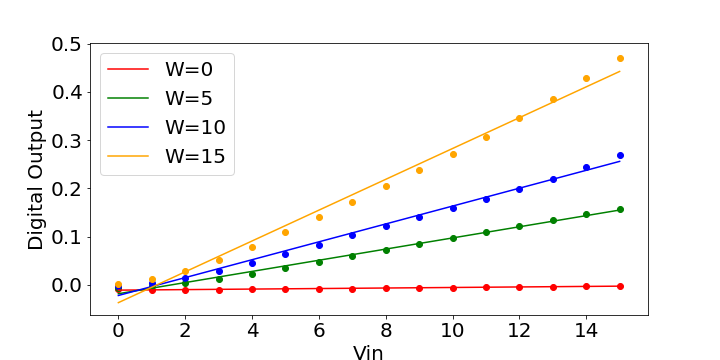
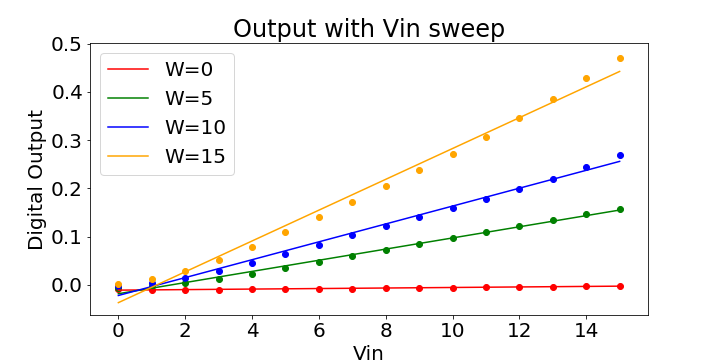
add existing fi files

Changed region(s): [[0.3056, 0.0611, 0.7028, 0.1222]]

diff --git a/Application levels/MNIST/LeNet.py b/Application levels/MNIST/LeNet.py
@@ -73,16 +73,17 @@ class lenet(nn.Module):
     
     def inference(self, x,do_quantise = True):
         #layer 1
-        x = self.myconv(inp=x, w=self.conv1.weight.data, input_channels=self.input_size, output_channels=6, kernel_size=5, padding=2)
-        
+        x = self.myconv(x=x, w=self.conv1.weight.data, input_channels=self.input_size, output_channels=6, kernel_size=5, padding=2, b=self.conv1.bias.data)
         x = F.relu(x)
         x = self.maxpool1(x)
         #layer 2
-        x,d = self.quantise(x,self.bit_A, do_quantise)
-        x = self.myconv(inp=x,digital=d,weight=self.conv2.weight.data,input_channels=6,output_channels=16, kernel_size=5, padding=0, bias=self.conv2.bias.data)
+        x = F.relu(self.conv2(x))
+        x = self.maxpool2(x)        
         
-        x = F.relu(x)
-        x = self.maxpool2(x)
+        x = x.view(x.size(0), -1)
+        x = F.relu(self.linear1(x))
+        x = F.relu(self.linear2(x))
+        x = self.classifier(x)
         """
         #Flatten
         x = x.view(x.size(0), -1)
@@ -102,13 +103,13 @@ class lenet(nn.Module):
              
     
     
-    def myconv(self,x,w,input_channels,output_channels,kernel_size,padding):
+    def myconv(self,x,w,input_channels,output_channels,kernel_size,padding,stride=1,b=0):
         #non_linearity matrix read from the file
         mult = pd.read_csv('/home/min/a/skodge/Project/GitHub/6T-SRAM-Multiplication/Circuit Simulation/nominal.csv',header=None)
         mult = torch.tensor(mult.values)
         #storing min and max result for scaling at the end 
-        macmin = torch.max(self.conv1(x))
-        macmax = torch.min(self.conv1(x))
+        macmin = torch.max(F.conv2d(x,w,bias=None,stride=stride,padding=padding))
+        macmax = torch.min(F.conv2d(x,w,bias=None,stride=stride,padding=padding))
         
         # padding
         p = torch.nn.ConstantPad2d((padding,padding,padding,padding),0)
@@ -173,6 +174,8 @@ class lenet(nn.Module):
                         # accumulating the 25 vector mac
                         activation_vector[batch,o_c,i,j] = activation_vector[batch,o_c,i,j] +(digital_outp-digital_outn)
         activation_vector = (activation_vector-activation_vector.min())*(macmax-macmin)/((activation_vector.max()-activation_vector.min()))+macmin
+        for i in range (b):
+            activation_vector = activation_vector + b[i]
         return activation_vector
     
                                     

diff --git a/Circuit Simulation/Circuit_Results.py b/Circuit Simulation/Circuit_Results.py
@@ -54,6 +54,7 @@ line = slope*W+intercept
 plt.plot(W,line,c='orange')
 plt.scatter(W,y_bl[3,:].T,marker="o",c='orange')
 plt.legend(('W=0','W=5','W=10','W=15'))
+plt.title("Output with Vin sweep")
 plt.savefig('/home/min/a/skodge/Project/GitHub/6T-SRAM-Multiplication/Circuit Simulation/OutVsVin.png')
 
 matplotlib.rcParams.update({'font.size': 20})
@@ -78,6 +79,7 @@ line = slope*W+intercept
 plt.plot(W,line,c='orange')
 plt.scatter(W,y_bl[3,:].T,marker="o",c='orange')
 plt.legend(('Vin=0','Vin=5','Vin=10','Vin=15'))
+plt.title("Output with W sweep")
 plt.savefig('/home/min/a/skodge/Project/GitHub/6T-SRAM-Multiplication/Circuit Simulation/OutVsW.png')
 
 matplotlib.rcParams.update({'font.size': 20})

diff --git a/Application levels/MNIST/train.py b/Application levels/MNIST/train.py
@@ -80,7 +80,7 @@ def test(epoch, best_loss, best_epoch, best_correct, do_quantise,do_add_error,mo
         if cuda:
             data, target = data.cuda(), target.cuda()
         data, target = Variable(data), Variable(target)
-        output = model.inference(data, do_quantise=do_quantise,do_add_error=do_add_error,mode=mode)
+        output = model.inference(data, do_quantise=do_quantise)
         # sum up batch loss
         test_loss += criterion(output, target).data.item()
         # get the index of the max log-probability
